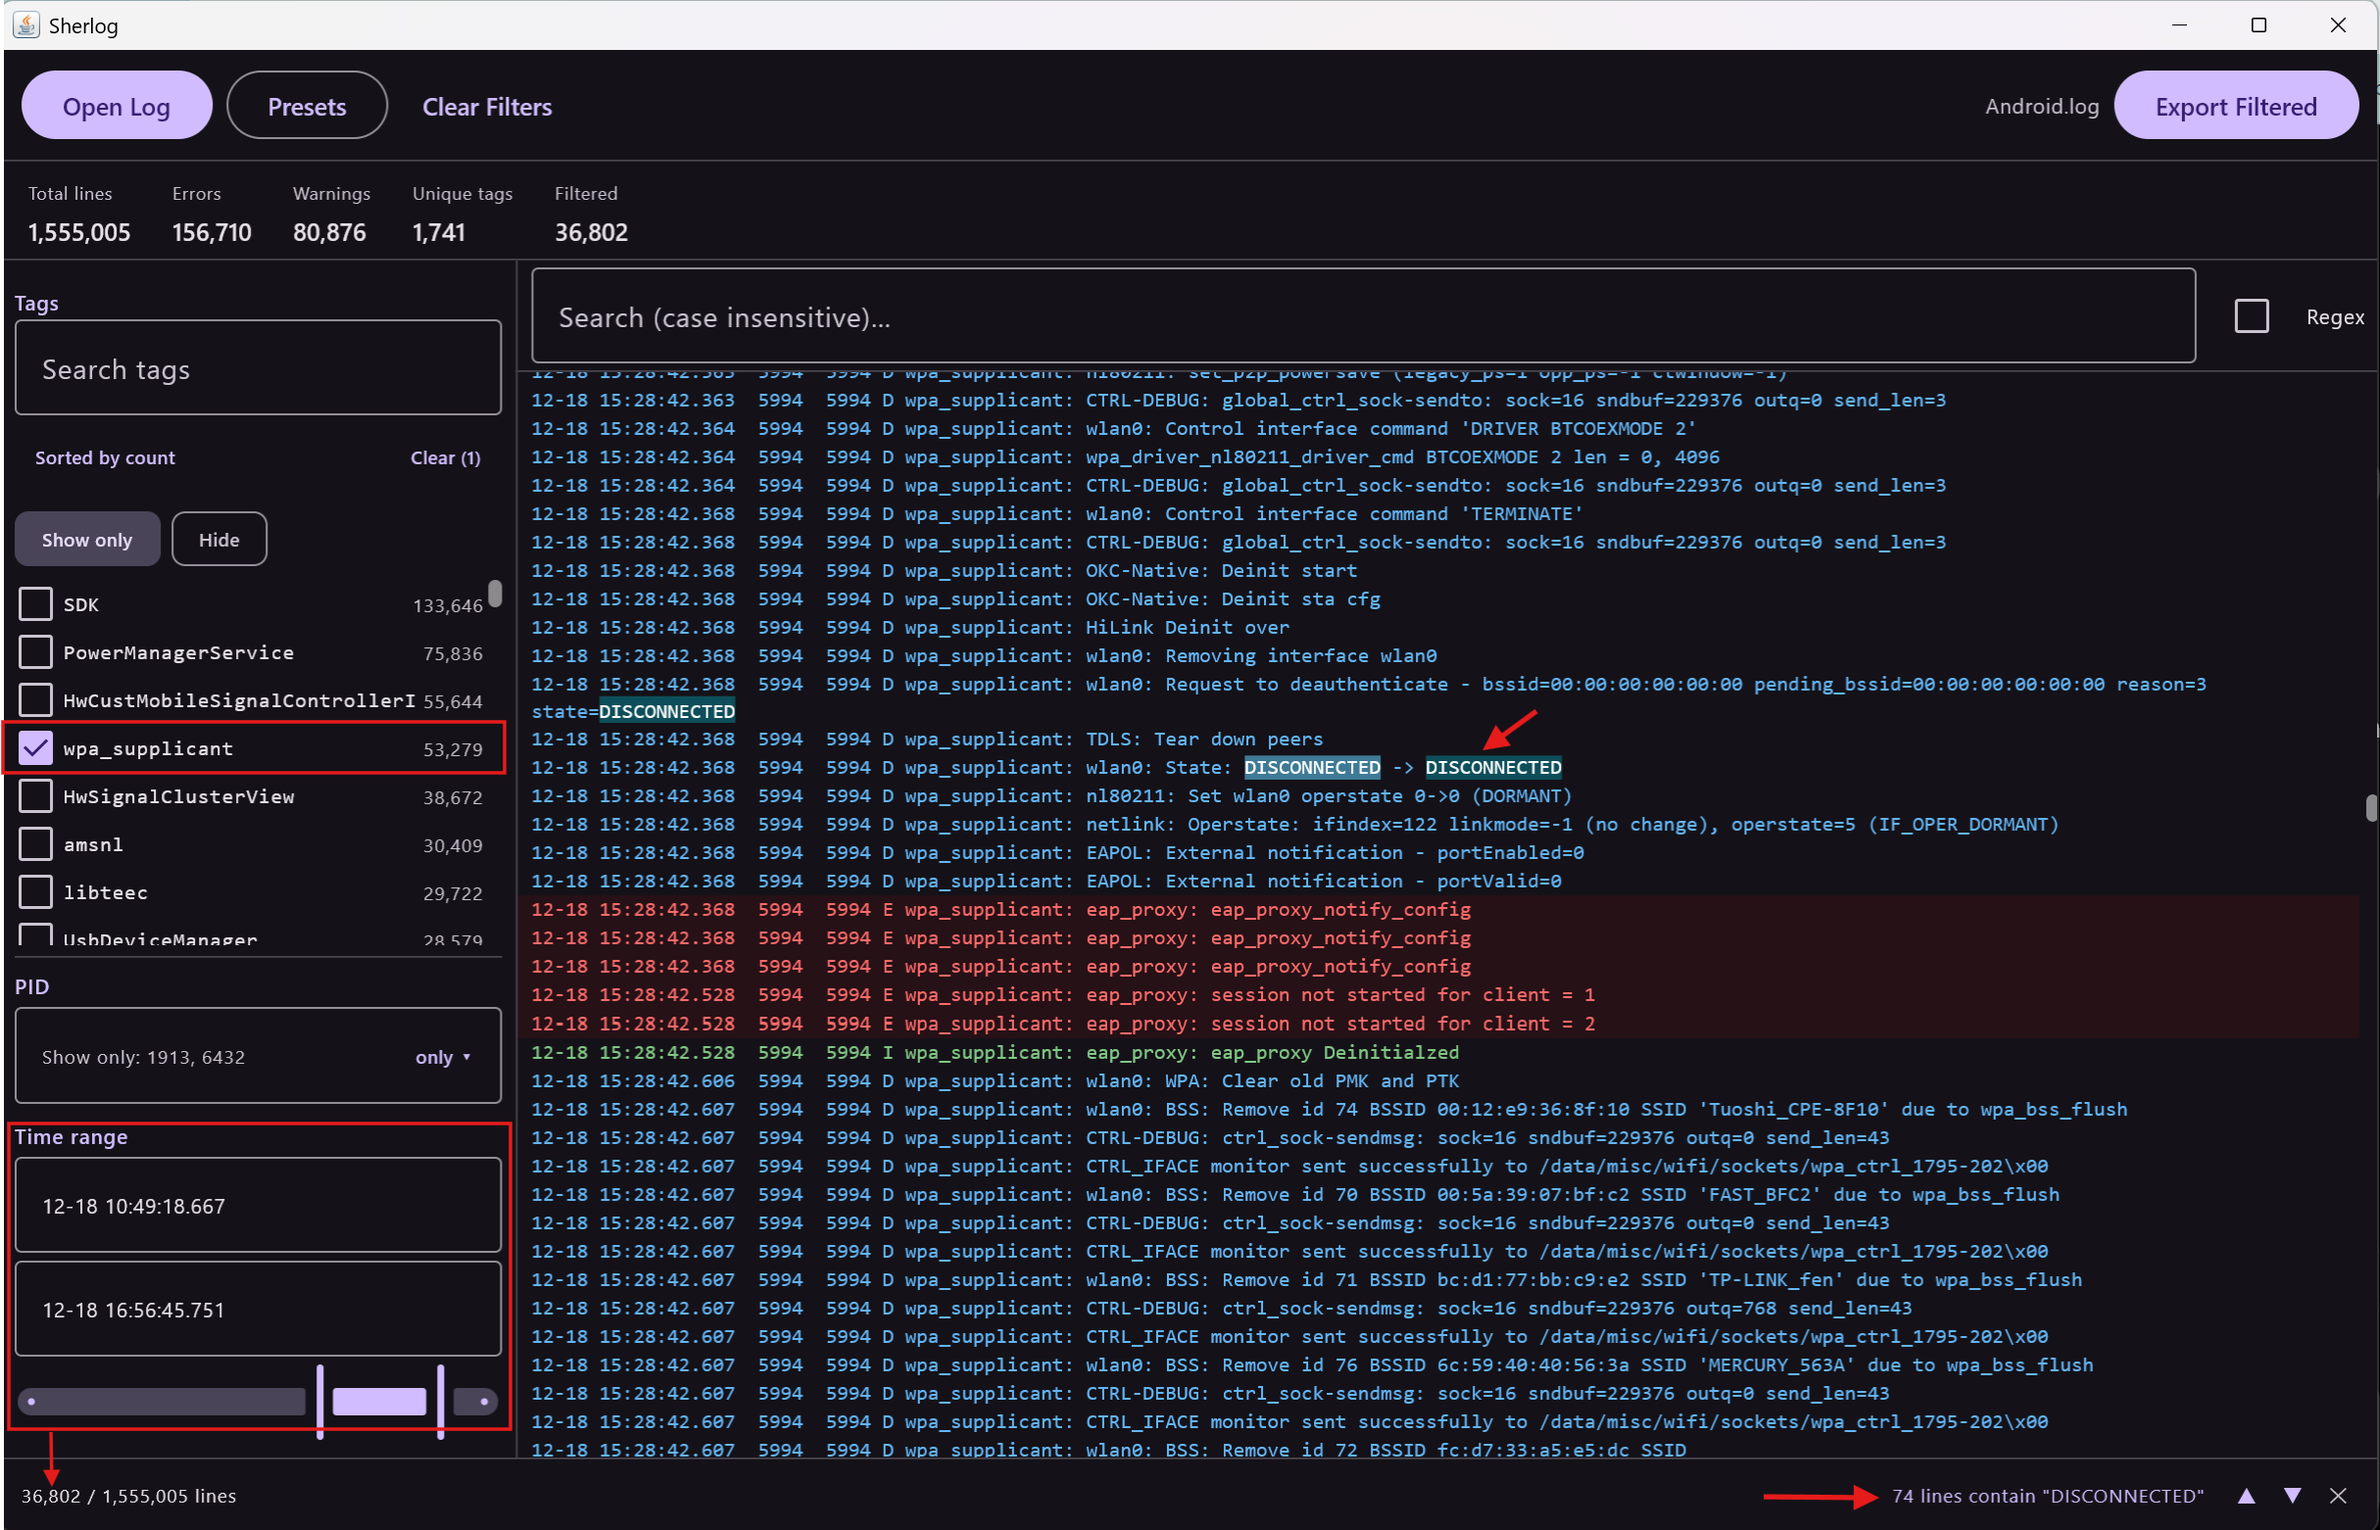
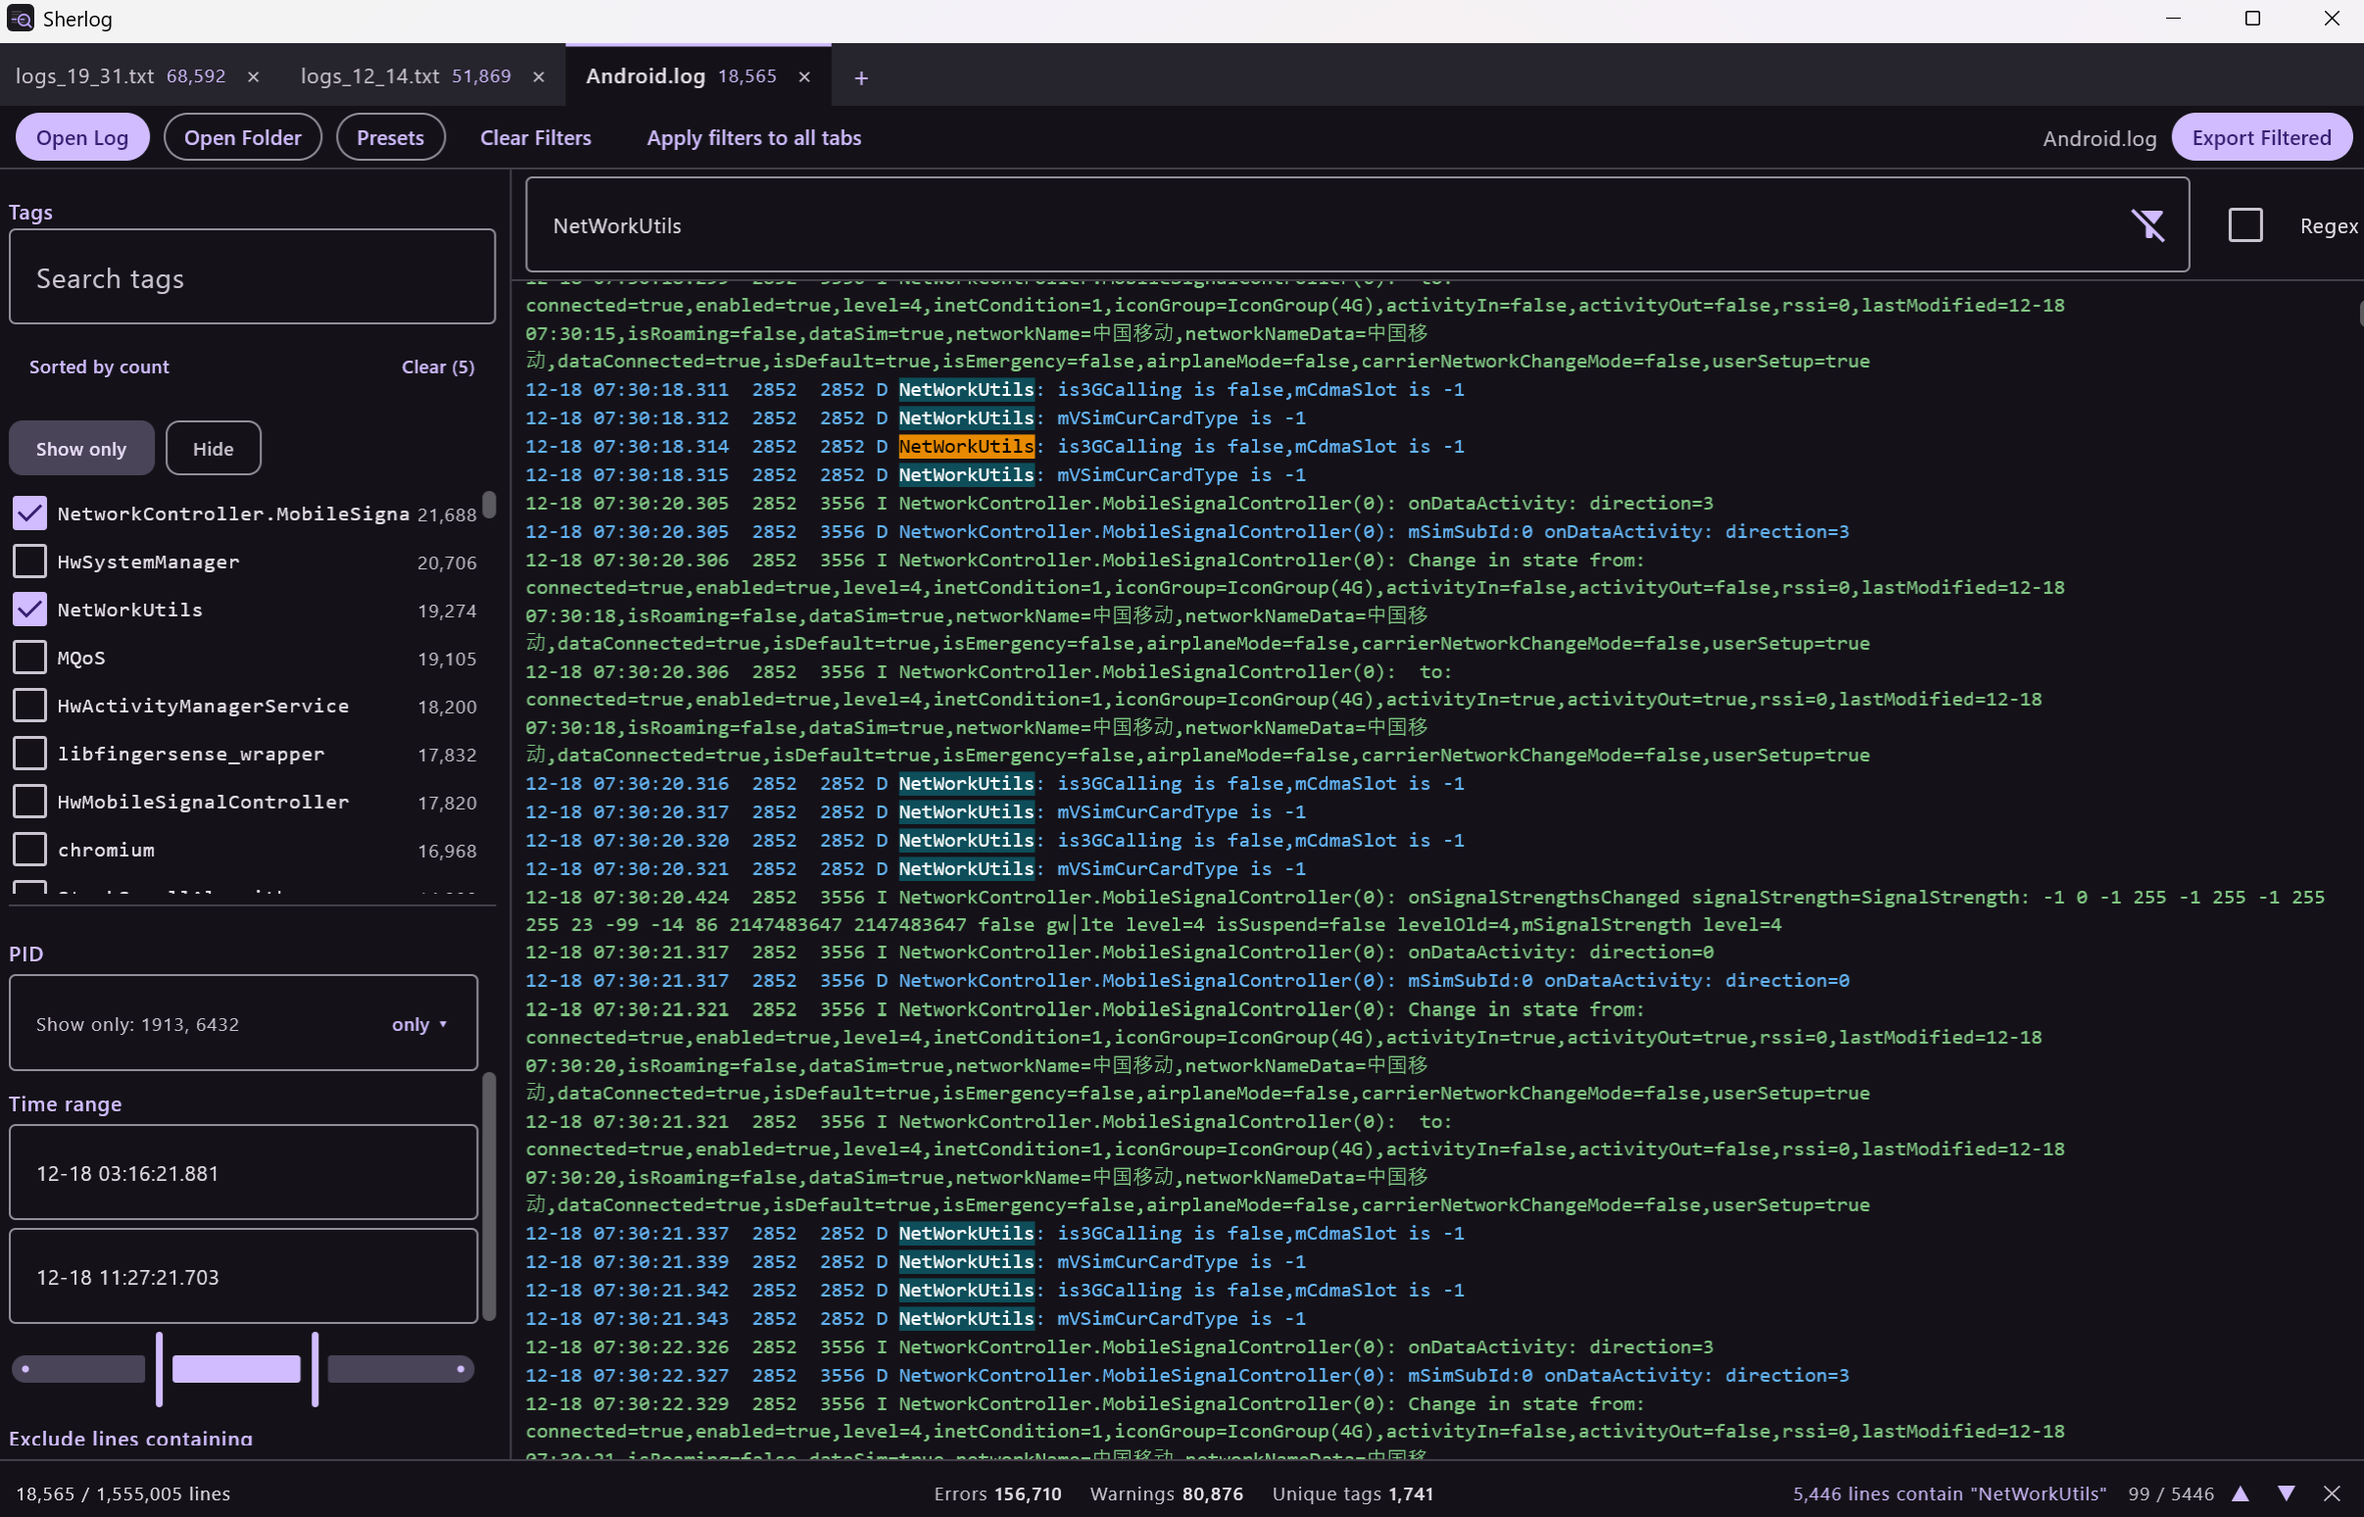
Add latest screenshot

Changed region(s): [[0.0, 0.0, 1.0, 1.0]]

diff --git a/README.md b/README.md
@@ -5,11 +5,13 @@ far too big for a text editor, then filter it down by tag, PID, level, time and
 text instead of grinding through `findstr` and regex passes by hand.
 Kotlin + Compose Desktop.
 
-![Sherlog filtering a 1.5-million-line logcat down to 36,802 lines](docs/images/screenshot.png)
+![Sherlog with three logs in tabs, filtering a 1.5-million-line logcat down to 18,565 lines](docs/images/screenshot.png)
 
-A 1,555,005-line dump narrowed to **36,802 lines** by one tag and a time range,
-with every occurrence of the selected text highlighted and counted
-(*74 lines contain "DISCONNECTED"*, bottom right) so you can step through them.
+A 1,555,005-line dump narrowed to **18,565 lines** by five tags and a time
+range. Find mode highlights every `NetWorkUtils` and counts them
+(*5,446 lines contain "NetWorkUtils"*, bottom right); ▲ ▼ step through them,
+the current one in amber. Three logs are open in tabs, each showing how many
+lines its filters keep.
 
 Docs: [User Guide](docs/USER_GUIDE.md) · [Features](docs/FEATURES.md) ·
 [Why this tool](docs/WHY_THIS_TOOL.md).
